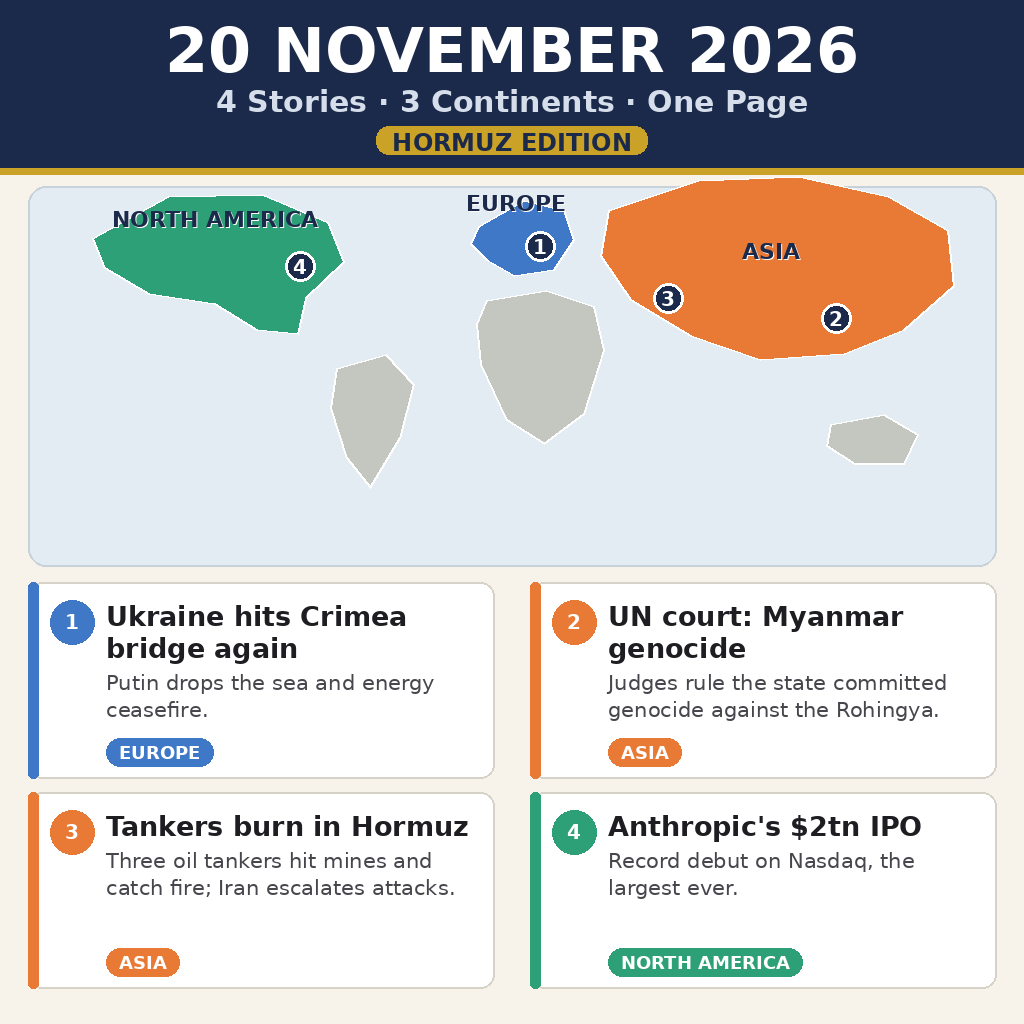
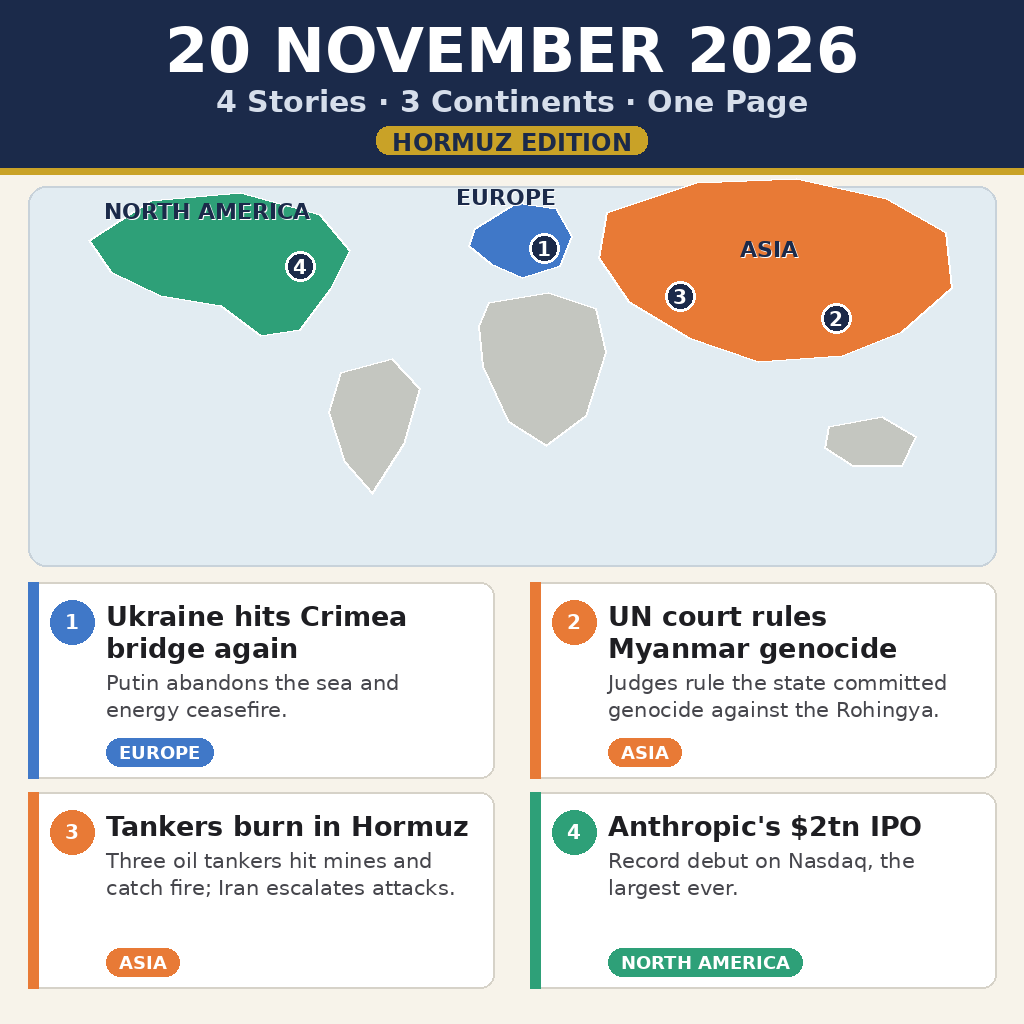
Revise wording and map labels: abandons ceasefire, clearer Myanmar headline, labels clear of land

diff --git a/draw.py b/draw.py
@@ -1,210 +1,188 @@
 #!/usr/bin/env python3
-"""Draw entry.png: one-page summary of 20 November 2026 world news.
+"""One-page picture of Friday 20 November 2026: four stories, three continents.
 
-Deterministic: no clock, no randomness. Same script -> same bytes.
-4 stories, 3 continents (Asia x2, Europe x1, North America x1).
-Title: 20 November 2026 - 4 Stories, 3 Continents, One Page - Hormuz Edition.
+Drawn fresh with Pillow. No clock, no random numbers, so running it twice
+writes the same file both times. Title: 20 November 2026, 4 Stories,
+3 Continents, One Page, Hormuz Edition.
 """
-import textwrap
+from PIL import Image as Canvas
+from PIL import ImageDraw as Pen
+from PIL import ImageFont as Type
 
-from PIL import Image, ImageDraw, ImageFont
+PAGE = 1024
 
-CANVAS_W, CANVAS_H = 1024, 1024
-OUT_PATH = "entry.png"
-FONTS = "/usr/share/fonts/truetype/dejavu/"
+PAINT = {
+    "navy": (27, 42, 74),
+    "cream": (247, 243, 234),
+    "ink": (30, 30, 34),
+    "grey": (70, 70, 76),
+    "gold": (201, 162, 39),
+    "sea": (226, 236, 242),
+    "sea_edge": (200, 210, 218),
+    "orange": (232, 122, 54),
+    "blue": (64, 120, 200),
+    "green": (46, 160, 120),
+    "flat": (196, 198, 192),
+    "white": (255, 255, 255),
+    "card_edge": (214, 210, 200),
+    "soft": (214, 222, 235),
+}
 
 
-def load(name, size):
-    return ImageFont.truetype(FONTS + name, size)
+def typeface(bold, px):
+    stem = "DejaVuSans-Bold.ttf" if bold else "DejaVuSans.ttf"
+    return Type.truetype("/usr/share/fonts/truetype/dejavu/" + stem, px)
 
 
-TITLE_F = load("DejaVuSans-Bold.ttf", 62)
-SUB_F = load("DejaVuSans-Bold.ttf", 30)
-BADGE_F = load("DejaVuSans-Bold.ttf", 24)
-CONT_F = load("DejaVuSans-Bold.ttf", 22)
-NUM_F = load("DejaVuSans-Bold.ttf", 20)
-HEAD_F = load("DejaVuSans-Bold.ttf", 27)
-BODY_F = load("DejaVuSans.ttf", 21)
-TAG_F = load("DejaVuSans-Bold.ttf", 18)
+BIG = typeface(True, 62)
+SUB = typeface(True, 30)
+EDITION = typeface(True, 24)
+PLACE = typeface(True, 22)
+PIN = typeface(True, 20)
+HEAD = typeface(True, 27)
+BODY = typeface(False, 21)
+TAG = typeface(True, 18)
 
-NAVY = (27, 42, 74)
-CREAM = (247, 243, 234)
-INK = (30, 30, 34)
-BODY_GREY = (70, 70, 76)
-GOLD = (201, 162, 39)
-SEA = (226, 236, 242)
-SEA_LINE = (200, 210, 218)
-ORANGE = (232, 122, 54)
-BLUE = (64, 120, 200)
-GREEN = (46, 160, 120)
-GREY_LAND = (196, 198, 192)
-WHITE = (255, 255, 255)
-CARD_LINE = (214, 210, 200)
-
-STORIES = [
-    {
-        "n": 1,
-        "head": "Ukraine hits Crimea bridge again",
-        "body": "Putin drops the sea and energy ceasefire.",
-        "tag": "EUROPE",
-        "colour": BLUE,
-    },
-    {
-        "n": 2,
-        "head": "UN court: Myanmar genocide",
-        "body": "Judges rule the state committed genocide against the Rohingya.",
-        "tag": "ASIA",
-        "colour": ORANGE,
-    },
-    {
-        "n": 3,
-        "head": "Tankers burn in Hormuz",
-        "body": "Three oil tankers hit mines and catch fire; Iran escalates attacks.",
-        "tag": "ASIA",
-        "colour": ORANGE,
-    },
-    {
-        "n": 4,
-        "head": "Anthropic's $2tn IPO",
-        "body": "Record debut on Nasdaq, the largest ever.",
-        "tag": "NORTH AMERICA",
-        "colour": GREEN,
-    },
+# One tuple per story: number, headline, one-line summary, continent, colour.
+NEWS = [
+    (1, "Ukraine hits Crimea bridge again",
+     "Putin abandons the sea and energy ceasefire.",
+     "EUROPE", (64, 120, 200)),
+    (2, "UN court rules Myanmar genocide",
+     "Judges rule the state committed genocide against the Rohingya.",
+     "ASIA", (232, 122, 54)),
+    (3, "Tankers burn in Hormuz",
+     "Three oil tankers hit mines and catch fire; Iran escalates attacks.",
+     "ASIA", (232, 122, 54)),
+    (4, "Anthropic's $2tn IPO",
+     "Record debut on Nasdaq, the largest ever.",
+     "NORTH AMERICA", (46, 160, 120)),
 ]
 
-# Schematic flat shapes for the world map, in canvas coordinates.
-# Only the three continents with stories are coloured; the rest are grey.
-LAND = [
-    ("North America",
-     [(92, 238), (168, 196), (262, 194), (328, 222), (344, 262),
-      (306, 298), (298, 334), (256, 330), (214, 304), (148, 294),
-      (104, 268)],
-     GREEN, (112, 206), "NORTH AMERICA"),
-    ("South America",
-     [(336, 368), (386, 354), (414, 384), (400, 438), (370, 488),
-      (346, 458), (330, 408)],
-     GREY_LAND, None, None),
-    ("Europe",
-     [(478, 226), (524, 200), (564, 210), (574, 240), (554, 270),
-      (514, 276), (486, 260), (470, 244)],
-     BLUE, (466, 190), "EUROPE"),
-    ("Africa",
-     [(486, 300), (546, 290), (594, 306), (604, 350), (584, 414),
-      (544, 444), (506, 420), (480, 364), (476, 324)],
-     GREY_LAND, None, None),
-    ("Asia",
-     [(608, 210), (698, 180), (798, 176), (888, 196), (948, 230),
-      (954, 286), (904, 330), (844, 354), (760, 360), (690, 336),
-      (630, 300), (600, 256)],
-     ORANGE, (742, 238), "ASIA"),
-    ("Oceania",
-     [(830, 424), (884, 414), (918, 434), (904, 464), (854, 464),
-      (826, 446)],
-     GREY_LAND, None, None),
-]
+# Schematic land shapes: outline, fill, label position (or None), label text.
+LAND = {
+    "North America": (
+        [(88, 240), (150, 200), (240, 192), (320, 214), (350, 250),
+         (330, 290), (300, 330), (260, 336), (220, 306), (160, 296),
+         (110, 272)],
+        (46, 160, 120), (104, 198), "NORTH AMERICA"),
+    "South America": (
+        [(340, 372), (392, 358), (420, 388), (404, 444), (372, 494),
+         (344, 462), (328, 412)],
+        (196, 198, 192), None, None),
+    "Europe": (
+        [(474, 228), (516, 202), (556, 208), (572, 236), (560, 266),
+         (522, 278), (490, 264), (468, 246)],
+        (64, 120, 200), (456, 184), "EUROPE"),
+    "Africa": (
+        [(488, 302), (548, 292), (596, 308), (606, 352), (586, 416),
+         (546, 446), (508, 422), (482, 366), (478, 326)],
+        (196, 198, 192), None, None),
+    "Asia": (
+        [(606, 212), (696, 182), (796, 178), (886, 198), (946, 232),
+         (952, 288), (902, 332), (842, 356), (758, 362), (688, 338),
+         (628, 302), (598, 258)],
+        (232, 122, 54), (740, 236), "ASIA"),
+    "Oceania": (
+        [(828, 426), (882, 416), (916, 436), (902, 466), (852, 466),
+         (824, 448)],
+        (196, 198, 192), None, None),
+}
 
-# Where each story happened on the map: (x, y, story number).
-PINS = [
-    (540, 246, 1),   # Crimea bridge, Black Sea, eastern Europe
-    (836, 318, 2),   # Myanmar, south-east Asia
-    (668, 298, 3),   # Strait of Hormuz, Persian Gulf
-    (300, 266, 4),   # New York / Nasdaq, US east coast
-]
+# Where each story happened: (x, y, story number).
+PINS = ((544, 248, 1), (836, 318, 2), (680, 296, 3), (300, 266, 4))
 
 
-def wrap_lines(text, font, max_width, draw):
-    """Split text into lines that fit max_width pixels."""
-    words = text.split()
-    lines, current = [], ""
-    for word in words:
-        trial = (current + " " + word).strip()
-        if draw.textlength(trial, font=font) <= max_width:
-            current = trial
+def fit(d, s, f, width):
+    """Break a string into lines no wider than width pixels."""
+    out, line = [], ""
+    for word in s.split():
+        test = (line + " " + word).strip()
+        if d.textlength(test, font=f) <= width:
+            line = test
+        elif line:
+            out.append(line)
+            line = word
         else:
-            if current:
-                lines.append(current)
-            current = word
-    if current:
-        lines.append(current)
-    return lines
+            line = word
+    if line:
+        out.append(line)
+    return out
 
 
-def centred(draw, text, font, y, colour):
-    width = draw.textlength(text, font=font)
-    draw.text(((CANVAS_W - width) / 2, y), text, font=font, fill=colour)
+def centre(d, s, f, y, fill):
+    w = d.textlength(s, font=f)
+    d.text(((PAGE - w) / 2, y), s, font=f, fill=fill)
 
 
-def draw_header(draw):
-    draw.rectangle([0, 0, CANVAS_W, 168], fill=NAVY)
-    draw.rectangle([0, 168, CANVAS_W, 174], fill=GOLD)
-    centred(draw, "20 NOVEMBER 2026", TITLE_F, 14, WHITE)
-    centred(draw, "4 Stories \u00b7 3 Continents \u00b7 One Page",
-            SUB_F, 84, (214, 222, 235))
-    badge = "HORMUZ EDITION"
-    badge_w = draw.textlength(badge, font=BADGE_F) + 36
-    bx = (CANVAS_W - badge_w) / 2
-    draw.rounded_rectangle([bx, 124, bx + badge_w, 156], radius=15,
-                           fill=GOLD, outline=NAVY, width=2)
-    draw.text((bx + 18, 128), badge, font=BADGE_F, fill=NAVY)
+def header(d):
+    d.rectangle((0, 0, PAGE, 168), fill=PAINT["navy"])
+    d.rectangle((0, 168, PAGE, 174), fill=PAINT["gold"])
+    centre(d, "20 NOVEMBER 2026", BIG, 14, PAINT["white"])
+    centre(d, "4 Stories \u00b7 3 Continents \u00b7 One Page", SUB, 84,
+           PAINT["soft"])
+    label = "HORMUZ EDITION"
+    lw = d.textlength(label, font=EDITION) + 36
+    x0 = (PAGE - lw) / 2
+    d.rounded_rectangle((x0, 124, x0 + lw, 156), radius=15,
+                        fill=PAINT["gold"], outline=PAINT["navy"], width=2)
+    d.text((x0 + 18, 128), label, font=EDITION, fill=PAINT["navy"])
 
 
-def draw_map(draw):
-    draw.rounded_rectangle([28, 186, 996, 566], radius=18,
-                           fill=SEA, outline=SEA_LINE, width=2)
-    for _name, shape, fill, _pos, _label in LAND:
-        draw.polygon(shape, fill=fill, outline=WHITE, width=2)
-    for _name, _shape, _fill, pos, label in LAND:
+def world(d):
+    d.rounded_rectangle((28, 186, 996, 566), radius=18, fill=PAINT["sea"],
+                        outline=PAINT["sea_edge"], width=2)
+    for shape, fill, _pos, _tag in LAND.values():
+        d.polygon(shape, fill=fill, outline=PAINT["white"], width=2)
+    for _shape, _fill, pos, tag in LAND.values():
         if pos is None:
             continue
-        x, y = pos
-        draw.text((x + 1, y + 1), label, font=CONT_F, fill=WHITE)
-        draw.text((x, y), label, font=CONT_F, fill=NAVY)
-    for x, y, num in PINS:
-        draw.ellipse([x - 15, y - 15, x + 15, y + 15],
-                     fill=NAVY, outline=WHITE, width=3)
-        label = str(num)
-        lw = draw.textlength(label, font=NUM_F)
-        draw.text((x - lw / 2, y - 11), label, font=NUM_F, fill=WHITE)
+        d.text((pos[0] + 1, pos[1] + 1), tag, font=PLACE,
+               fill=PAINT["white"])
+        d.text(pos, tag, font=PLACE, fill=PAINT["navy"])
+    for x, y, n in PINS:
+        d.ellipse((x - 15, y - 15, x + 15, y + 15), fill=PAINT["navy"],
+                  outline=PAINT["white"], width=3)
+        s = str(n)
+        sw = d.textlength(s, font=PIN)
+        d.text((x - sw / 2, y - 11), s, font=PIN, fill=PAINT["white"])
 
 
-def draw_card(draw, story, x, y, w, h):
-    colour = story["colour"]
-    draw.rounded_rectangle([x, y, x + w, y + h], radius=14,
-                           fill=WHITE, outline=CARD_LINE, width=2)
-    draw.rounded_rectangle([x, y, x + 10, y + h], radius=5, fill=colour)
+def card(d, story, x, y, w, h):
+    n, head, body, tag, colour = story
+    d.rounded_rectangle((x, y, x + w, y + h), radius=14,
+                        fill=PAINT["white"], outline=PAINT["card_edge"],
+                        width=2)
+    d.rectangle((x, y, x + 10, y + h), fill=colour)
     cx, cy = x + 44, y + 40
-    draw.ellipse([cx - 22, cy - 22, cx + 22, cy + 22], fill=colour)
-    num = str(story["n"])
-    nw = draw.textlength(num, font=NUM_F)
-    draw.text((cx - nw / 2, cy - 12), num, font=NUM_F, fill=WHITE)
+    d.ellipse((cx - 22, cy - 22, cx + 22, cy + 22), fill=colour)
+    s = str(n)
+    sw = d.textlength(s, font=PIN)
+    d.text((cx - sw / 2, cy - 12), s, font=PIN, fill=PAINT["white"])
     tx = x + 78
     hy = y + 18
-    for line in wrap_lines(story["head"], HEAD_F, w - 100, draw):
-        draw.text((tx, hy), line, font=HEAD_F, fill=INK)
+    for line in fit(d, head, HEAD, w - 100):
+        d.text((tx, hy), line, font=HEAD, fill=PAINT["ink"])
         hy += 32
     sy = hy + 6
-    for line in wrap_lines(story["body"], BODY_F, w - 100, draw):
-        draw.text((tx, sy), line, font=BODY_F, fill=BODY_GREY)
+    for line in fit(d, body, BODY, w - 100):
+        d.text((tx, sy), line, font=BODY, fill=PAINT["grey"])
         sy += 27
-    tag = story["tag"]
-    tag_w = draw.textlength(tag, font=TAG_F) + 26
+    tw = d.textlength(tag, font=TAG) + 26
     ty = y + h - 40
-    draw.rounded_rectangle([tx, ty, tx + tag_w, ty + 28], radius=14,
-                           fill=colour)
-    draw.text((tx + 13, ty + 4), tag, font=TAG_F, fill=WHITE)
+    d.rounded_rectangle((tx, ty, tx + tw, ty + 28), radius=14, fill=colour)
+    d.text((tx + 13, ty + 4), tag, font=TAG, fill=PAINT["white"])
 
 
-def main():
-    image = Image.new("RGB", (CANVAS_W, CANVAS_H), CREAM)
-    draw = ImageDraw.Draw(image)
-    draw_header(draw)
-    draw_map(draw)
-    card_w, card_h = 466, 196
-    spots = [(28, 582), (530, 582), (28, 792), (530, 792)]
-    for story, (x, y) in zip(STORIES, spots):
-        draw_card(draw, story, x, y, card_w, card_h)
-    image.save(OUT_PATH, format="PNG")
+def build():
+    canvas = Canvas.new("RGB", (PAGE, PAGE), PAINT["cream"])
+    d = Pen.Draw(canvas)
+    header(d)
+    world(d)
+    spots = ((28, 582), (530, 582), (28, 792), (530, 792))
+    for story, (x, y) in zip(NEWS, spots):
+        card(d, story, x, y, 466, 196)
+    canvas.save("entry.png", "PNG")
 
 
-if __name__ == "__main__":
-    main()
+build()

diff --git a/main.py b/main.py
@@ -1,20 +1,16 @@
 #!/usr/bin/env python3
-"""Copy the repository's entry.png to the output directory.
+"""Ship the pre-drawn entry.png into the output directory (stdlib only)."""
+from os import environ as _env
+from pathlib import Path
+from shutil import copyfile as _copy
 
-Standard library only, so it runs in the judge's sandbox with no network.
-"""
-import os
-import shutil
-
-HERE = os.path.dirname(os.path.abspath(__file__))
+HERE = Path(__file__).resolve().parent
 
 
-def main():
-    out_dir = os.environ.get("MAKEFUN_OUTPUT_DIR", "/output")
-    os.makedirs(out_dir, exist_ok=True)
-    shutil.copyfile(os.path.join(HERE, "entry.png"),
-                    os.path.join(out_dir, "entry.png"))
+def ship():
+    target = Path(_env.get("MAKEFUN_OUTPUT_DIR", "/output"))
+    target.mkdir(parents=True, exist_ok=True)
+    _copy(HERE / "entry.png", target / "entry.png")
 
 
-if __name__ == "__main__":
-    main()
+ship()
